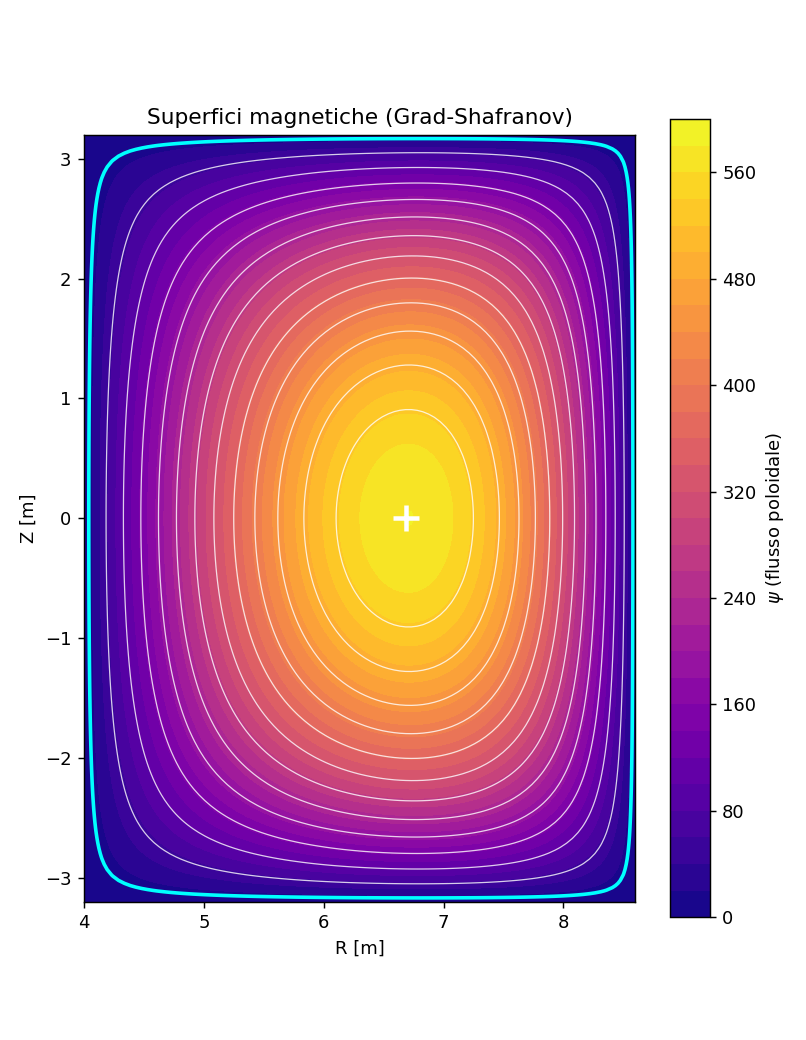
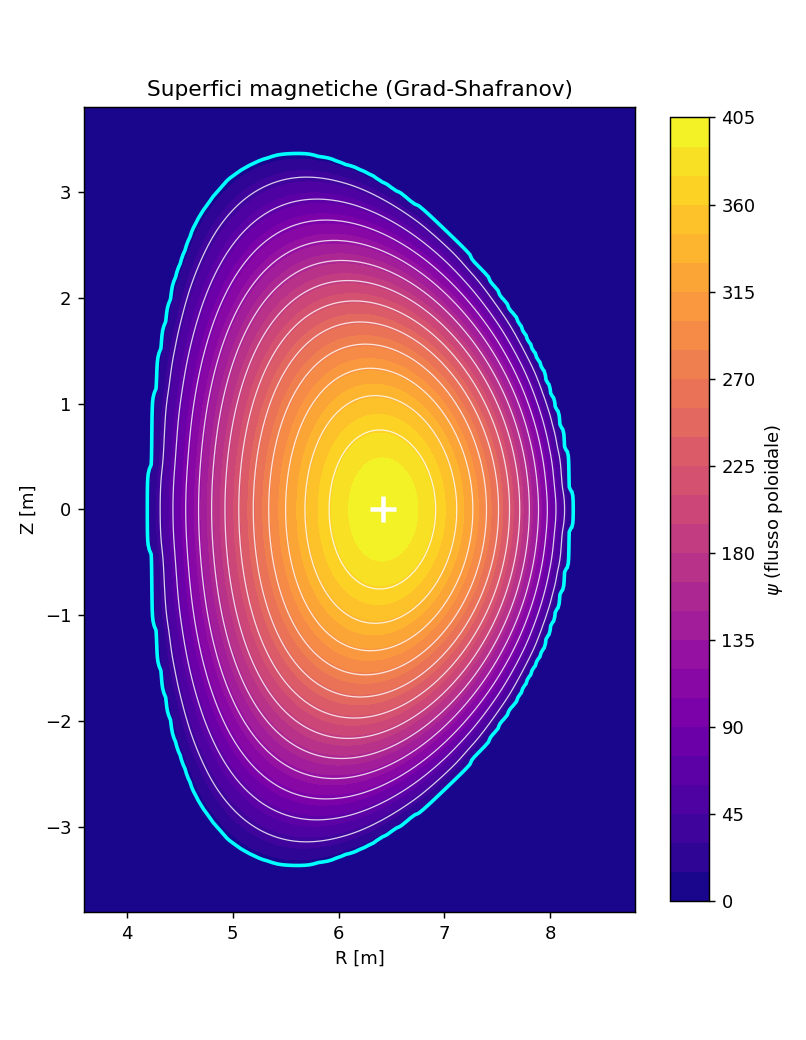
fix(equilibrium): prescribe D-shaped plasma boundary (kappa, delta)
- set_d_shaped_boundary: maschera del dominio a forma di D via Path

- nodi esterni alla D diventano Dirichlet (psi=0); operatore riassemblato

- guess di Picard azzerato fuori dal plasma per non contaminare il bordo

- demo ora mostra la sezione a D iconica (kappa=1.7, delta=0.33)

- nuovo test: plasma nullo fuori dalla D ed elongato verticalmente

La forma a D e' un input ingegneristico (bobine di sagomatura), non emerge sola.

diff --git a/src/tokamak/equilibrium.py b/src/tokamak/equilibrium.py
@@ -55,6 +55,9 @@ class GradShafranovSolver:
     RR: NDArray[np.float64] = field(init=False)
     ZZ: NDArray[np.float64] = field(init=False)
     psi: NDArray[np.float64] = field(init=False)
+    # Nodi di Dirichlet (psi imposta): bordo griglia ed eventuale esterno del
+    # plasma quando si prescrive un bordo sagomato (es. forma a D).
+    _fixed: NDArray[np.bool_] = field(init=False)
     _A: csr_matrix = field(init=False)
 
     def __post_init__(self) -> None:
@@ -63,6 +66,40 @@ class GradShafranovSolver:
         # Indici: RR varia lungo le righe (R), ZZ lungo le colonne (Z).
         self.RR, self.ZZ = np.meshgrid(self.R, self.Z, indexing="ij")
         self.psi = np.zeros((self.nR, self.nZ))
+        # Default: Dirichlet solo sul bordo rettangolare della griglia.
+        self._fixed = self._grid_edge_mask()
+        self._A = self._build_operator()
+
+    def _grid_edge_mask(self) -> NDArray[np.bool_]:
+        mask = np.zeros((self.nR, self.nZ), dtype=bool)
+        mask[0, :] = mask[-1, :] = mask[:, 0] = mask[:, -1] = True
+        return mask
+
+    def set_d_shaped_boundary(
+        self, R0: float, a: float, kappa: float, delta: float, n_boundary: int = 400
+    ) -> None:
+        """Prescrive un bordo del plasma a forma di "D" (psi=0 su di esso).
+
+        La forma e' parametrizzata in modo standard da elongazione kappa e
+        triangolarita' delta:
+
+            R(t) = R0 + a cos(t + delta sin t),   Z(t) = kappa a sin t
+
+        Fisicamente e' cio' che fanno le bobine di sagomatura: la forma del
+        plasma e' un INPUT ingegneristico, non emerge da sola. I nodi della
+        griglia esterni alla D diventano nodi di Dirichlet (psi=0); l'operatore
+        viene riassemblato di conseguenza.
+        """
+        from matplotlib.path import Path
+
+        t = np.linspace(0.0, 2.0 * np.pi, n_boundary)
+        Rb = R0 + a * np.cos(t + delta * np.sin(t))
+        Zb = kappa * a * np.sin(t)
+        polygon = Path(np.column_stack([Rb, Zb]))
+        pts = np.column_stack([self.RR.ravel(), self.ZZ.ravel()])
+        inside = polygon.contains_points(pts).reshape(self.nR, self.nZ)
+        # Dirichlet ovunque tranne all'interno della D (e mai sul bordo griglia).
+        self._fixed = self._grid_edge_mask() | ~inside
         self._A = self._build_operator()
 
     # --- Costruzione dell'operatore Delta* (matrice sparsa) ----------------
@@ -83,8 +120,9 @@ class GradShafranovSolver:
         for i in range(nR):
             for j in range(nZ):
                 k = idx(i, j)
-                # Bordo: Dirichlet -> riga identita'.
-                if i == 0 or i == nR - 1 or j == 0 or j == nZ - 1:
+                # Nodo di Dirichlet (bordo griglia o esterno del plasma) ->
+                # riga identita'.
+                if self._fixed[i, j]:
                     rows.append(k)
                     cols.append(k)
                     data.append(1.0)
@@ -127,11 +165,9 @@ class GradShafranovSolver:
             if np.isscalar(boundary)
             else np.asarray(boundary)
         )
-        # Sovrascrive i nodi di bordo col valore di Dirichlet.
-        mask = np.zeros((nR, nZ), dtype=bool)
-        mask[0, :] = mask[-1, :] = mask[:, 0] = mask[:, -1] = True
+        # Sovrascrive i nodi di Dirichlet col valore al bordo.
         b_grid = b.reshape(nR, nZ)
-        b_grid[mask] = bnd[mask]
+        b_grid[self._fixed] = bnd[self._fixed]
 
         psi = spsolve(self._A, b_grid.reshape(-1))
         self.psi = psi.reshape(nR, nZ)
@@ -159,6 +195,7 @@ class GradShafranovSolver:
         guess = np.clip(
             1.0 - ((self.RR - Rmid) / aR) ** 2 - ((self.ZZ - Zmid) / aZ) ** 2, 0.0, None
         )
+        guess[self._fixed] = 0.0  # nullo fuori dal plasma (e sul bordo griglia)
         self.psi = guess
 
         for it in range(1, max_iter + 1):

diff --git a/tests/test_equilibrium.py b/tests/test_equilibrium.py
@@ -56,6 +56,31 @@ def test_picard_converges_and_produces_peaked_psi():
     assert abs(Z_ax) < 1.0  # asse vicino al piano mediano per simmetria
 
 
+def test_d_shaped_boundary_gives_elongated_plasma():
+    """Con un bordo a D (kappa>1), il plasma e' nullo fuori dalla D e la regione
+    con psi>0 e' piu' estesa in Z che in R (elongazione)."""
+    solver = GradShafranovSolver(
+        R_min=3.8, R_max=8.6, Z_min=-3.6, Z_max=3.6, nR=71, nZ=101
+    )
+    kappa = 1.8
+    solver.set_d_shaped_boundary(R0=6.2, a=2.0, kappa=kappa, delta=0.3)
+
+    def rhs(psi, RR):
+        psi_n = np.clip(psi / (np.max(psi) + 1e-30), 0.0, None)
+        return -120.0 * (0.7 * (RR / 6.2) ** 2 + 0.3) * (1.0 + 1.5 * psi_n)
+
+    solver.solve_picard(rhs, max_iter=200, tol=1e-7, relax=0.4)
+
+    # Fuori dalla D (nodi fissati) psi e' esattamente nullo.
+    assert np.allclose(solver.psi[solver._fixed], 0.0, atol=1e-9)
+
+    # La regione di plasma (psi>0) e' elongata verticalmente.
+    plasma = solver.psi > 0.05 * solver.psi.max()
+    R_extent = np.ptp(solver.RR[plasma])
+    Z_extent = np.ptp(solver.ZZ[plasma])
+    assert Z_extent / R_extent > 1.3  # riflette kappa > 1
+
+
 def test_boundary_condition_is_enforced():
     """Con sorgente nulla e bordo nullo, psi deve essere identicamente zero."""
     solver = GradShafranovSolver(

diff --git a/notebooks/flux_surfaces.py b/notebooks/flux_surfaces.py
@@ -21,9 +21,14 @@ DOCS = Path(__file__).resolve().parent.parent / "docs"
 
 def main() -> None:
     R0 = 6.2  # raggio maggiore [m]
+    a = 2.0   # raggio minore [m]
+    kappa = 1.7  # elongazione (forma a D)
+    delta = 0.33  # triangolarita'
     solver = GradShafranovSolver(
-        R_min=4.0, R_max=8.6, Z_min=-3.2, Z_max=3.2, nR=97, nZ=145
+        R_min=3.6, R_max=8.8, Z_min=-3.8, Z_max=3.8, nR=121, nZ=181
     )
+    # Bordo del plasma a forma di D (imposto dalle bobine di sagomatura).
+    solver.set_d_shaped_boundary(R0=R0, a=a, kappa=kappa, delta=delta)
 
     def rhs(psi, RR):
         # Termine di destra di Grad-Shafranov tipo Solov'ev: una parte COSTANTE
@@ -35,11 +40,11 @@ def main() -> None:
 
     iters = solver.solve_picard(rhs, max_iter=300, tol=1e-8, relax=0.4)
     R_ax, Z_ax, psi_ax = solver.magnetic_axis()
-    R_geo = 0.5 * (solver.R_min + solver.R_max)
 
+    print(f"Forma a D: kappa={kappa}, delta={delta}")
     print(f"Picard convergente in {iters} iterazioni")
     print(f"Asse magnetico: R = {R_ax:.2f} m, Z = {Z_ax:.2f} m")
-    print(f"Shift di Shafranov (asse oltre il centro): {R_ax - R_geo:+.2f} m")
+    print(f"Shift di Shafranov (asse oltre R0): {R_ax - R0:+.2f} m")
 
     fig, ax = plt.subplots(figsize=(6.2, 8))
     levels = np.linspace(0.02 * psi_ax, psi_ax, 14)

diff --git a/README.md b/README.md
@@ -126,9 +126,11 @@ poloidale `ψ(R,Z)`:
 ```
 
 con un solver ellittico a differenze finite (matrice sparsa) e iterazione di
-Picard sul termine non lineare. Le curve di livello di `ψ` sono le superfici
-magnetiche annidate; l'asse magnetico risulta spostato verso l'esterno (shift di
-Shafranov). Validato contro una soluzione analitica polinomiale (Solov'ev).
+Picard sul termine non lineare. Il bordo del plasma è prescritto a forma di **D**
+(elongazione κ, triangolarità δ — ciò che fanno le bobine di sagomatura). Le
+curve di livello di `ψ` sono le superfici magnetiche annidate; l'asse magnetico
+risulta spostato verso l'esterno (shift di Shafranov). Validato contro una
+soluzione analitica polinomiale (Solov'ev).
 
 ### Combustione auto-consistente
 